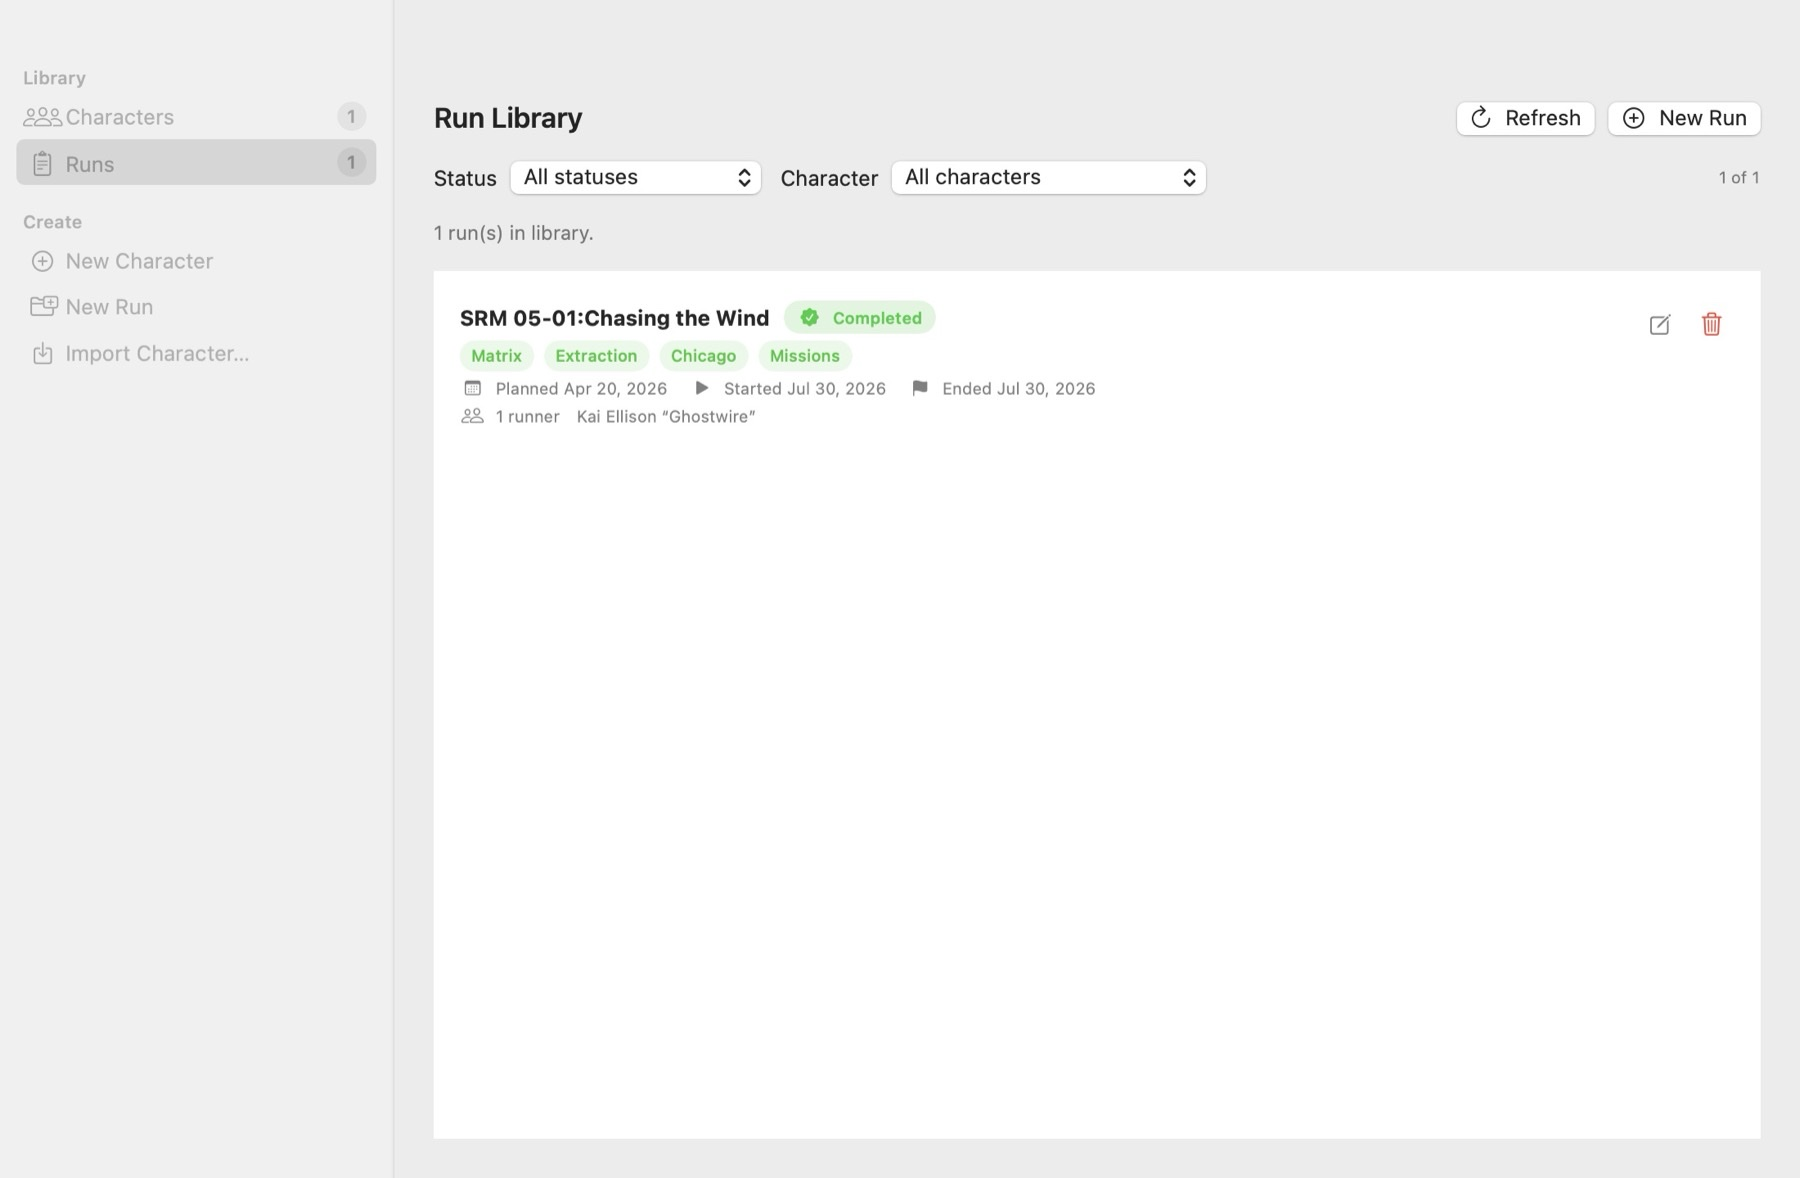
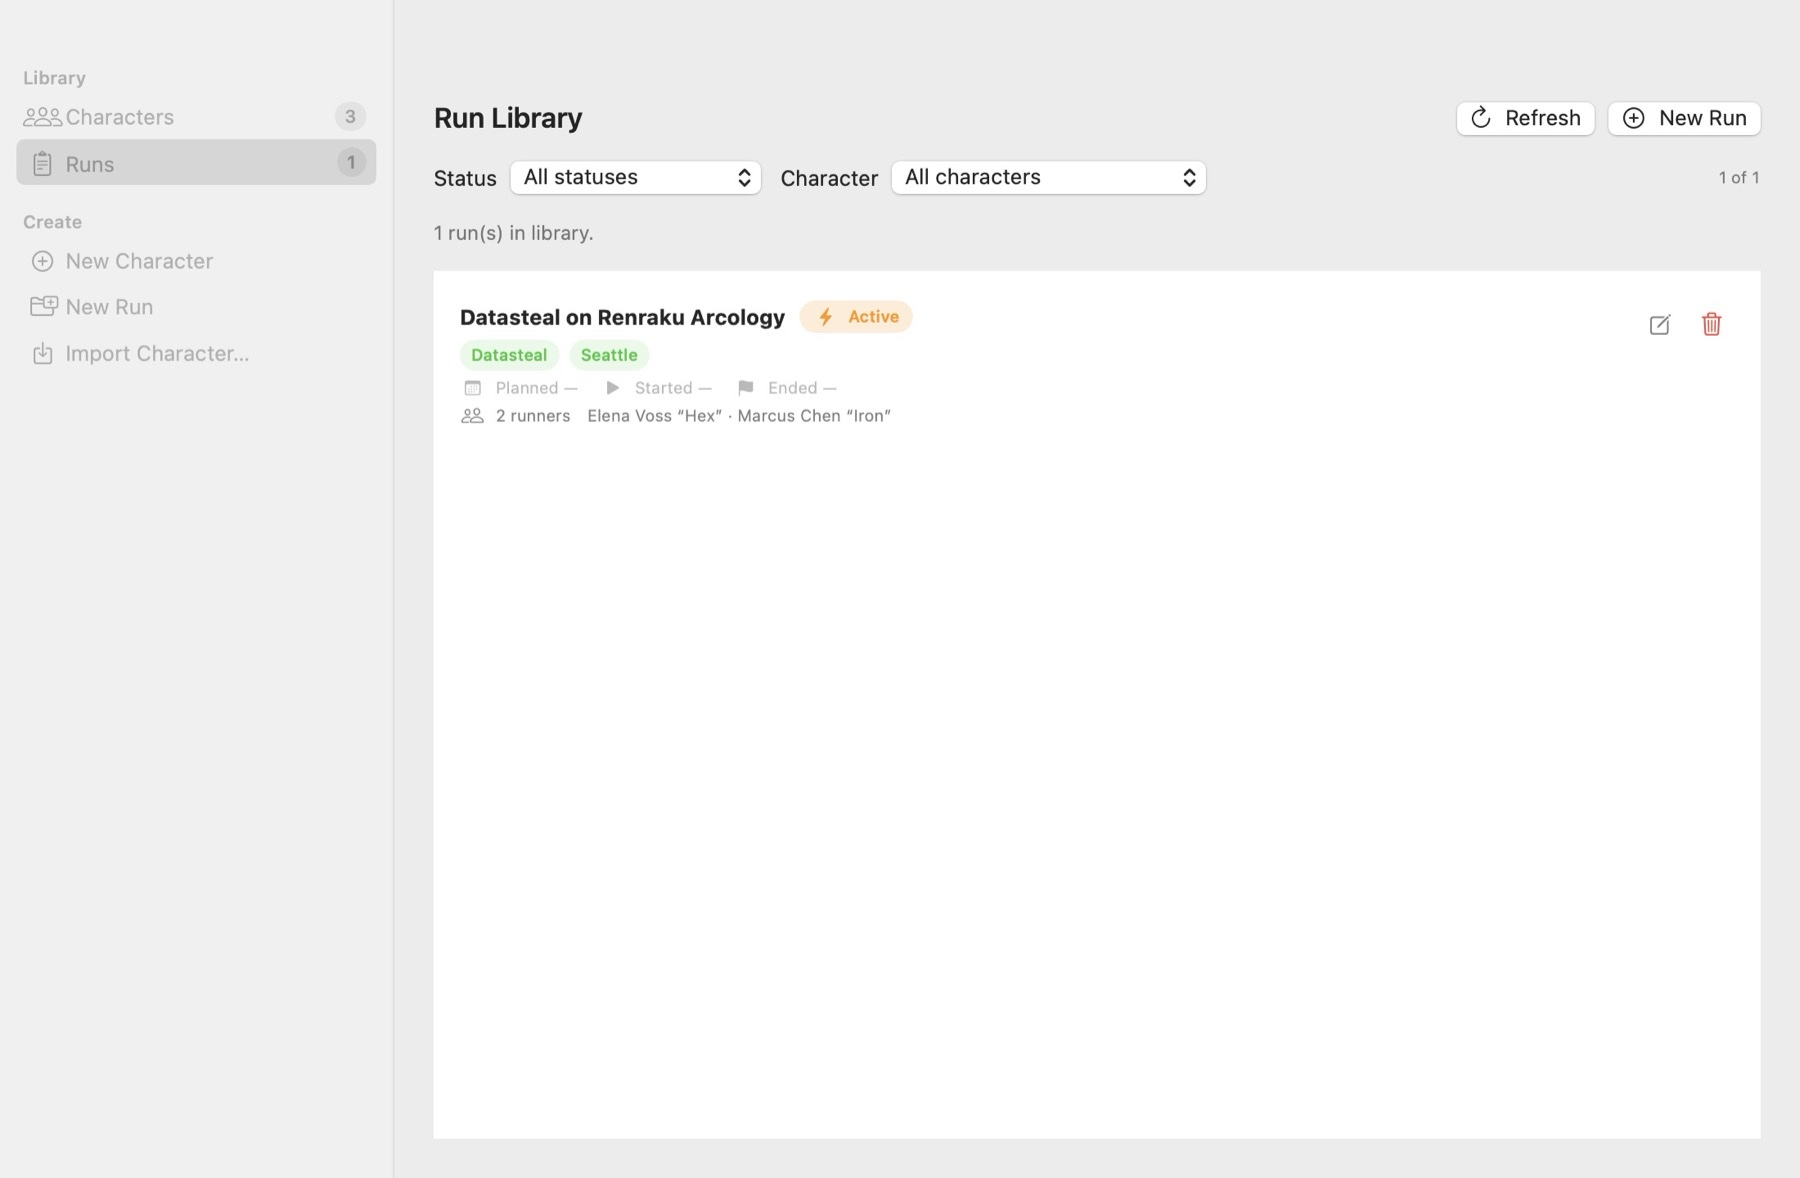
Use an in-memory sample library for marketing screenshots.
Marquee capture no longer opens the on-disk personal Character/Run libraries.
Capture launches with LibraryEnvironment.marketingCapture() (SR4/5/6 samples
plus one seeded run), regenerates Docs/Screenshots, and documents the privacy
behavior in the capture script and Screenshots README.

Changed region(s): [[0.2489, 0.2445, 0.6222, 0.3667]]

diff --git a/ShadowDeck/UI/ContentView.swift b/ShadowDeck/UI/ContentView.swift
@@ -598,22 +598,13 @@ struct ContentView: View {
     }
 
     /// Drive UI into known-good states for README marquee captures.
+    /// Capture launches with an in-memory sample-only library (`LibraryEnvironment.marketingCapture()`).
     private func handleMarketingPhase(_ phase: MarketingScreenshotExporter.Phase) {
         switch phase {
         case .splash:
             break
         case .library:
             marketingOpenRunID = nil
-            // Ensure the library has something photogenic.
-            do {
-                if try libraryEnvironment.library.count() == 0 {
-                    for sample in SampleCharacters.makeAll() {
-                        try libraryEnvironment.library.save(sample)
-                    }
-                }
-            } catch {
-                statusMessage = "Screenshot seed failed: \(error.localizedDescription)"
-            }
             selection = .characters
             selectedCharacterID = nil
             libraryQuery = ""
@@ -630,24 +621,8 @@ struct ContentView: View {
             marketingOpenRunID = nil
             selection = .characters
             refresh()
-            // Prefer the SR5 sample combat mage if present; else first library row.
-            let preferred = SampleCharacters.sr5ID
-            if summaries.contains(where: { $0.id == preferred }) {
-                selectedCharacterID = preferred
-            } else if let first = summaries.first?.id {
-                selectedCharacterID = first
-            } else {
-                // Seed and open SR5 sample.
-                do {
-                    for sample in SampleCharacters.makeAll() {
-                        try libraryEnvironment.library.save(sample)
-                    }
-                    refresh()
-                    selectedCharacterID = preferred
-                } catch {
-                    statusMessage = "Screenshot open failed: \(error.localizedDescription)"
-                }
-            }
+            // Always the SR5 sample combat mage (seeded in marketingCapture library).
+            selectedCharacterID = SampleCharacters.sr5ID
             // Showcase Advancement Planner on the marquee character-sheet shot.
             DispatchQueue.main.asyncAfter(deadline: .now() + 0.35) {
                 NotificationCenter.default.post(name: AppCommand.characterSheetShowAdvanceTab, object: nil)
@@ -655,12 +630,12 @@ struct ContentView: View {
         case .runLibrary:
             selectedCharacterID = nil
             marketingOpenRunID = nil
-            ensureSampleRunForScreenshots(openDetail: false)
+            openMarketingSampleRun(detail: false)
             selection = .runs
             refresh()
         case .runDetail:
             selectedCharacterID = nil
-            ensureSampleRunForScreenshots(openDetail: true)
+            openMarketingSampleRun(detail: true)
             selection = .runs
             refresh()
         case .finished:
@@ -668,47 +643,14 @@ struct ContentView: View {
         }
     }
 
-    /// Prefer an existing run (user library); otherwise seed a photogenic sample job.
-    private func ensureSampleRunForScreenshots(openDetail: Bool) {
+    /// Open the single seeded marketing run (never scans personal on-disk libraries).
+    private func openMarketingSampleRun(detail: Bool) {
         do {
-            let existing = try libraryEnvironment.runLibrary.listSummaries()
-            if let first = existing.first {
-                marketingOpenRunID = openDetail ? first.id : nil
-                return
-            }
-            // Seed characters if needed so the run can list a team.
-            if try libraryEnvironment.library.count() == 0 {
-                for sample in SampleCharacters.makeAll() {
-                    try libraryEnvironment.library.save(sample)
-                }
-                refresh()
-            }
-            let team = try libraryEnvironment.library.listSummaries()
-            var run = Run.makeDraft(title: "Datasteal on Renraku Arcology")
-            run.tags = ["Datasteal", "Seattle"]
-            run.status = .active
-            run.client = "Mr. Johnson (Ares cut-out)"
-            run.location = "Downtown Seattle · Renraku Arcology"
-            run.objectives = [
-                RunObjective(text: "Extract paydata from host 77-A", isPrimary: true, status: .pending),
-                RunObjective(text: "No civilian casualties", isPrimary: false, status: .pending),
-            ]
-            run.opposition = "High-threat Matrix IC; two corp security mage teams on rotation."
-            run.complicationsNotes = "Johnson may double-cross once the data leaves the building."
-            run.expectedPayout = RunPayout(nuyen: 18_000, karma: 6)
-            run.heatDelta = 2
-            run.participantCharacterIDs = team.prefix(2).map(\.id)
-            run.sessionLog = [
-                RunLogEntry(kind: .session, text: "Session 1 — matrix recon complete."),
-                RunLogEntry(kind: .complication, text: "Spider noticed the probe; clock is ticking."),
-            ]
-            run.gmNotes = "Keep decker spotlight; Face softens the Johnson if things go south."
-            run.applyStatus(.active)
-            try libraryEnvironment.runLibrary.save(run)
+            let runs = try libraryEnvironment.runLibrary.listSummaries()
+            marketingOpenRunID = detail ? runs.first?.id : nil
             libraryEnvironment.refreshRunCount()
-            marketingOpenRunID = openDetail ? run.id : nil
         } catch {
-            statusMessage = "Screenshot run seed failed: \(error.localizedDescription)"
+            statusMessage = "Screenshot run open failed: \(error.localizedDescription)"
         }
     }
 

diff --git a/ShadowDeck/Persistence/LibraryEnvironment.swift b/ShadowDeck/Persistence/LibraryEnvironment.swift
@@ -43,6 +43,38 @@ public final class LibraryEnvironment {
         return LibraryEnvironment(container: container, library: library, runLibrary: runLibrary)
     }
 
+    /// In-memory library with SR4/5/6 samples + one photogenic run.
+    /// Used for README marquee captures so personal disk libraries never appear.
+    public static func marketingCapture() throws -> LibraryEnvironment {
+        let env = try ephemeral()
+        for sample in SampleCharacters.makeAll() {
+            try env.library.save(sample)
+        }
+        var run = Run.makeDraft(title: "Datasteal on Renraku Arcology")
+        run.tags = ["Datasteal", "Seattle"]
+        run.status = .active
+        run.client = "Mr. Johnson (Ares cut-out)"
+        run.location = "Downtown Seattle · Renraku Arcology"
+        run.objectives = [
+            RunObjective(text: "Extract paydata from host 77-A", isPrimary: true, status: .pending),
+            RunObjective(text: "No civilian casualties", isPrimary: false, status: .pending),
+        ]
+        run.opposition = "High-threat Matrix IC; two corp security mage teams on rotation."
+        run.complicationsNotes = "Johnson may double-cross once the data leaves the building."
+        run.expectedPayout = RunPayout(nuyen: 18_000, karma: 6)
+        run.heatDelta = 2
+        run.participantCharacterIDs = [SampleCharacters.sr5ID, SampleCharacters.sr4ID]
+        run.sessionLog = [
+            RunLogEntry(kind: .session, text: "Session 1 — matrix recon complete."),
+            RunLogEntry(kind: .complication, text: "Spider noticed the probe; clock is ticking."),
+        ]
+        run.gmNotes = "Keep decker spotlight; Face softens the Johnson if things go south."
+        run.applyStatus(.active)
+        try env.runLibrary.save(run)
+        env.refreshRunCount()
+        return env
+    }
+
     public static func preview(seedSamples: Bool = true) -> LibraryEnvironment {
         do {
             let env = try ephemeral()

diff --git a/ShadowDeck/App/ShadowDeckApp.swift b/ShadowDeck/App/ShadowDeckApp.swift
@@ -24,7 +24,12 @@ struct ShadowDeckApp: App {
         UserDefaults.standard.removeObject(forKey: "hasSeenLaunchSplash")
         UserDefaults.standard.set(Self.splashRevision, forKey: "launchSplashRevision")
         do {
-            libraryEnvironment = try LibraryEnvironment.live()
+            // Marketing captures never open the on-disk personal library.
+            if MarketingScreenshotExporter.isEnabled {
+                libraryEnvironment = try LibraryEnvironment.marketingCapture()
+            } else {
+                libraryEnvironment = try LibraryEnvironment.live()
+            }
         } catch {
             // Fall back to empty in-memory so the window still launches if disk setup fails.
             do {

diff --git a/Docs/Screenshots/README.md b/Docs/Screenshots/README.md
@@ -16,4 +16,6 @@ Scripts/capture_readme_screenshots.sh
 | `06-run-detail.jpg` | Run detail / mission planner |
 | `thumbs/02–06-*.jpg` | Equal-size UI thumbnails (linked from README) |
 
-Full UI shots ~1800px long edge; thumbs ~960px. Capture prefers existing library data (including runs); seeds sample content only when empty.
+Full UI shots ~1800px long edge; thumbs ~960px.
+
+**Privacy:** Capture always uses an **in-memory** library seeded with sample characters and one sample run (`LibraryEnvironment.marketingCapture()`). Your on-disk personal Character / Run libraries are never opened during marquee capture.
